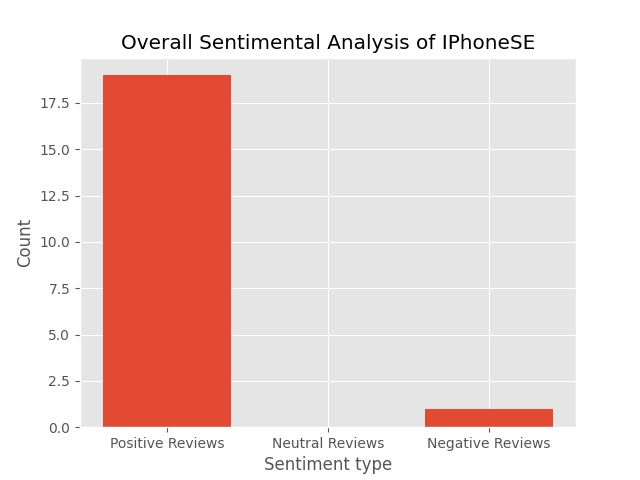
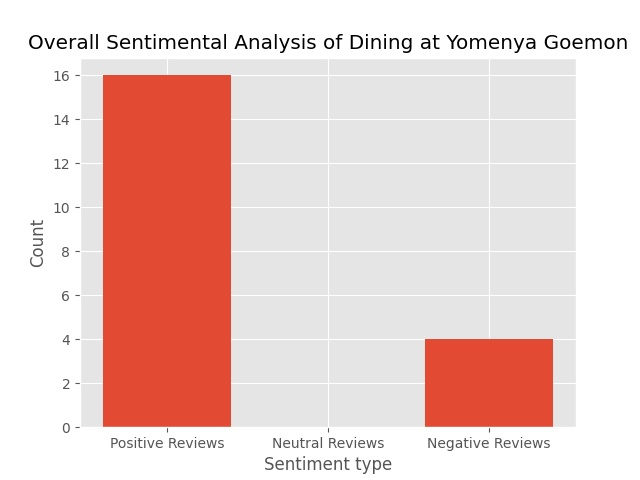
Updated with restaurant reviews

diff --git a/main.py b/main.py
@@ -1,6 +1,6 @@
 import string
 
-from nltk.sentiment import SentimentIntensityAnalyzer
+from nltk.sentiment.vader import SentimentIntensityAnalyzer
 from xlwt import Workbook
 import matplotlib.pyplot as plot
 from nltk.tokenize import word_tokenize
@@ -99,10 +99,10 @@ x_axis = ['Positive Reviews', 'Neutral Reviews', 'Negative Reviews']
 y_axis = [positive_counter, neutral_counter, negative_counter]
 plot.xlabel('Sentiment type')
 plot.ylabel('Count')
-plot.title('Overall Sentimental Analysis of IPhoneSE')
+plot.title('Overall Sentimental Analysis of Dining at Yomenya Goemon')
 plot.bar(x_axis, y_axis)
 plot.savefig('sentiment_analysis.jpg')
 plot.show()
 
-wb.save('sentiment_Categorisation.xls')
+wb.save('sentiment_Categorisation2.xls')
 f.close()
